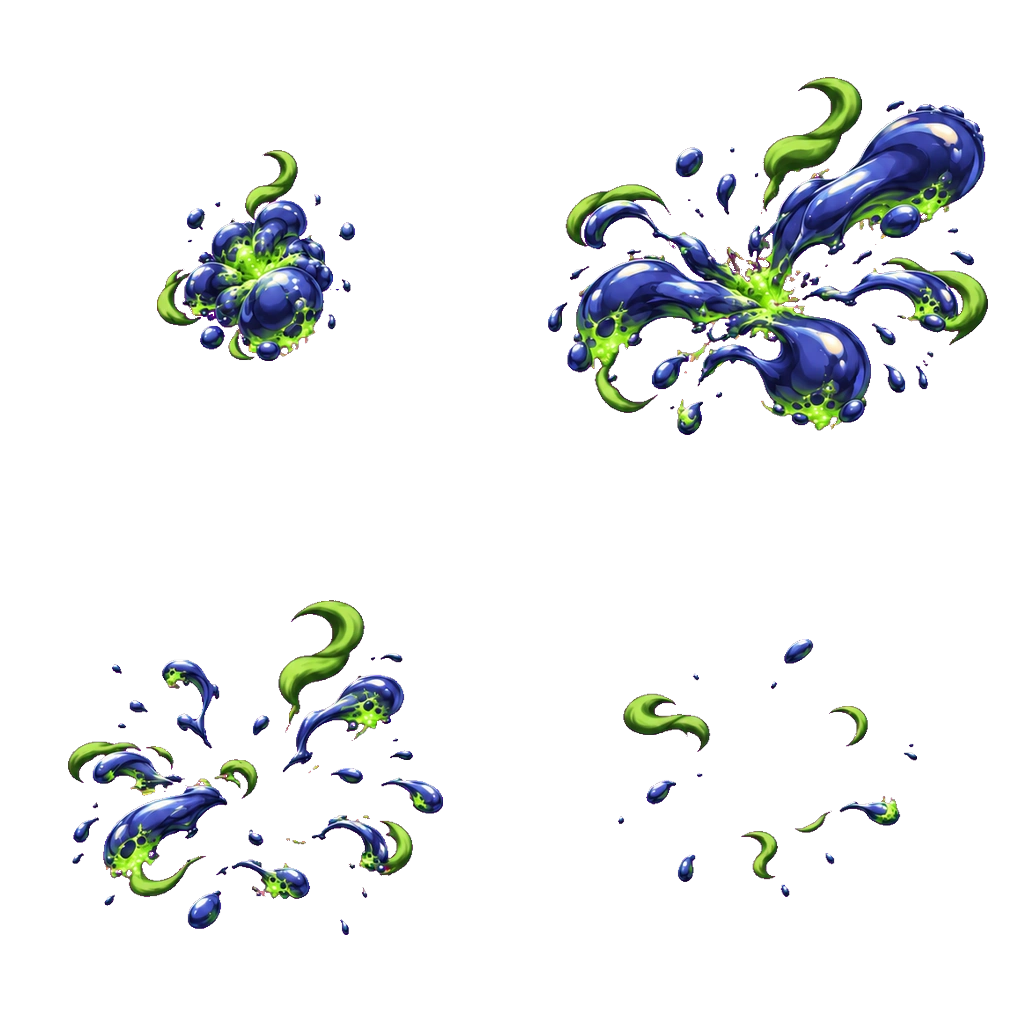
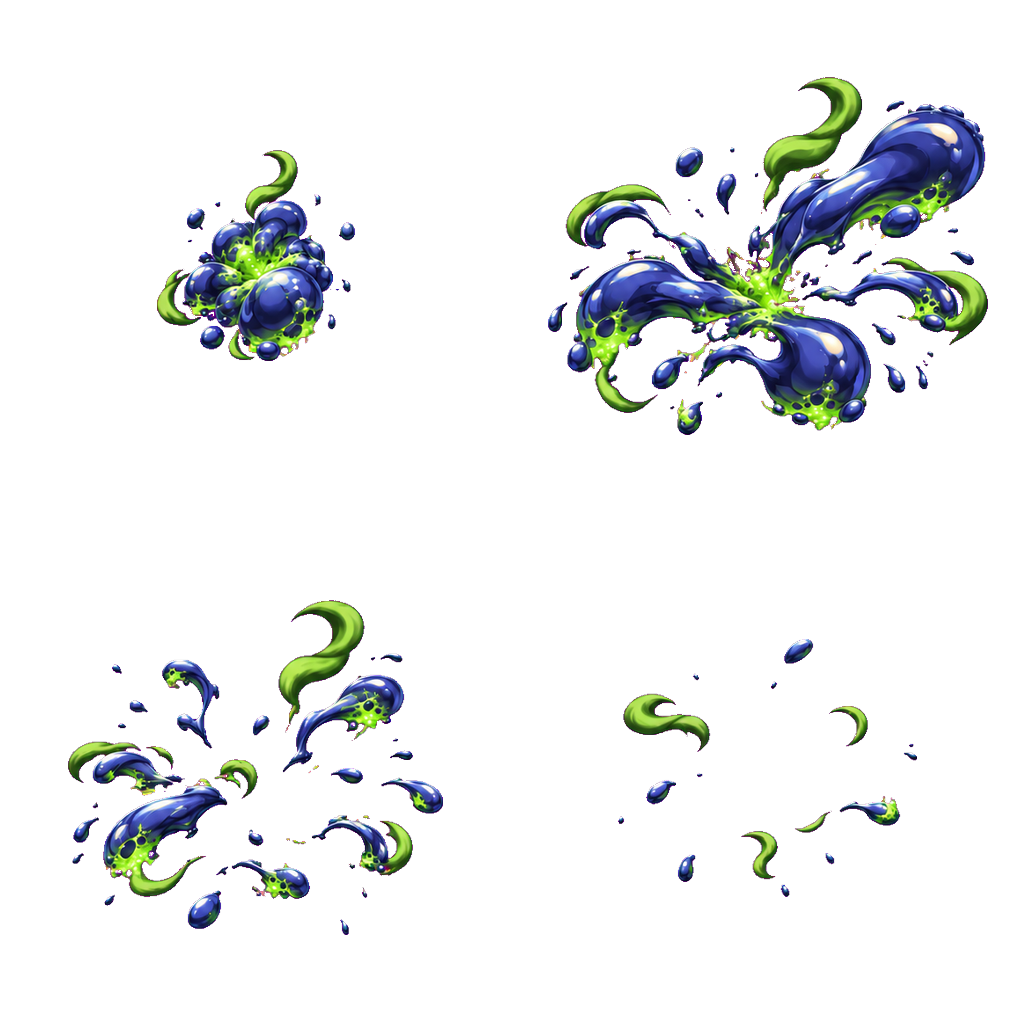
Preserve extracted effect contours in lossless runtime artwork

diff --git a/tools/prepare-art.py b/tools/prepare-art.py
@@ -29,7 +29,8 @@ for p in Path('assets/effects').glob('*-sheet.png'):
  target=p.with_suffix('.webp')
  if not target.exists() or target.stat().st_mtime < p.stat().st_mtime:
   temporary=target.with_suffix('.webp.tmp')
-  im.save(temporary,format='WEBP',quality=96,method=6,lossless=p.stem in ['dragon-impact-sheet','contact-impact-sheet'])
+  im.save(temporary,format='WEBP',quality=96,method=6,lossless=p.stem in [
+   'dragon-impact-sheet','contact-impact-sheet','bite-impact-sheet','poison-impact-sheet','wind-impact-sheet'])
   temporary.replace(target)
  name=p.stem.removesuffix('-sheet')
  manifest.append({'id':name,'image':target.as_posix(),'source':p.as_posix(),'rawSource':p.with_name(name+'-raw.png').as_posix(),'prompt':p.with_name(name+'.prompt.txt').as_posix(),'generator':'built-in imagegen','size':im.size,'transparent':True,'rows':2,'columns':2,'frames':4})
